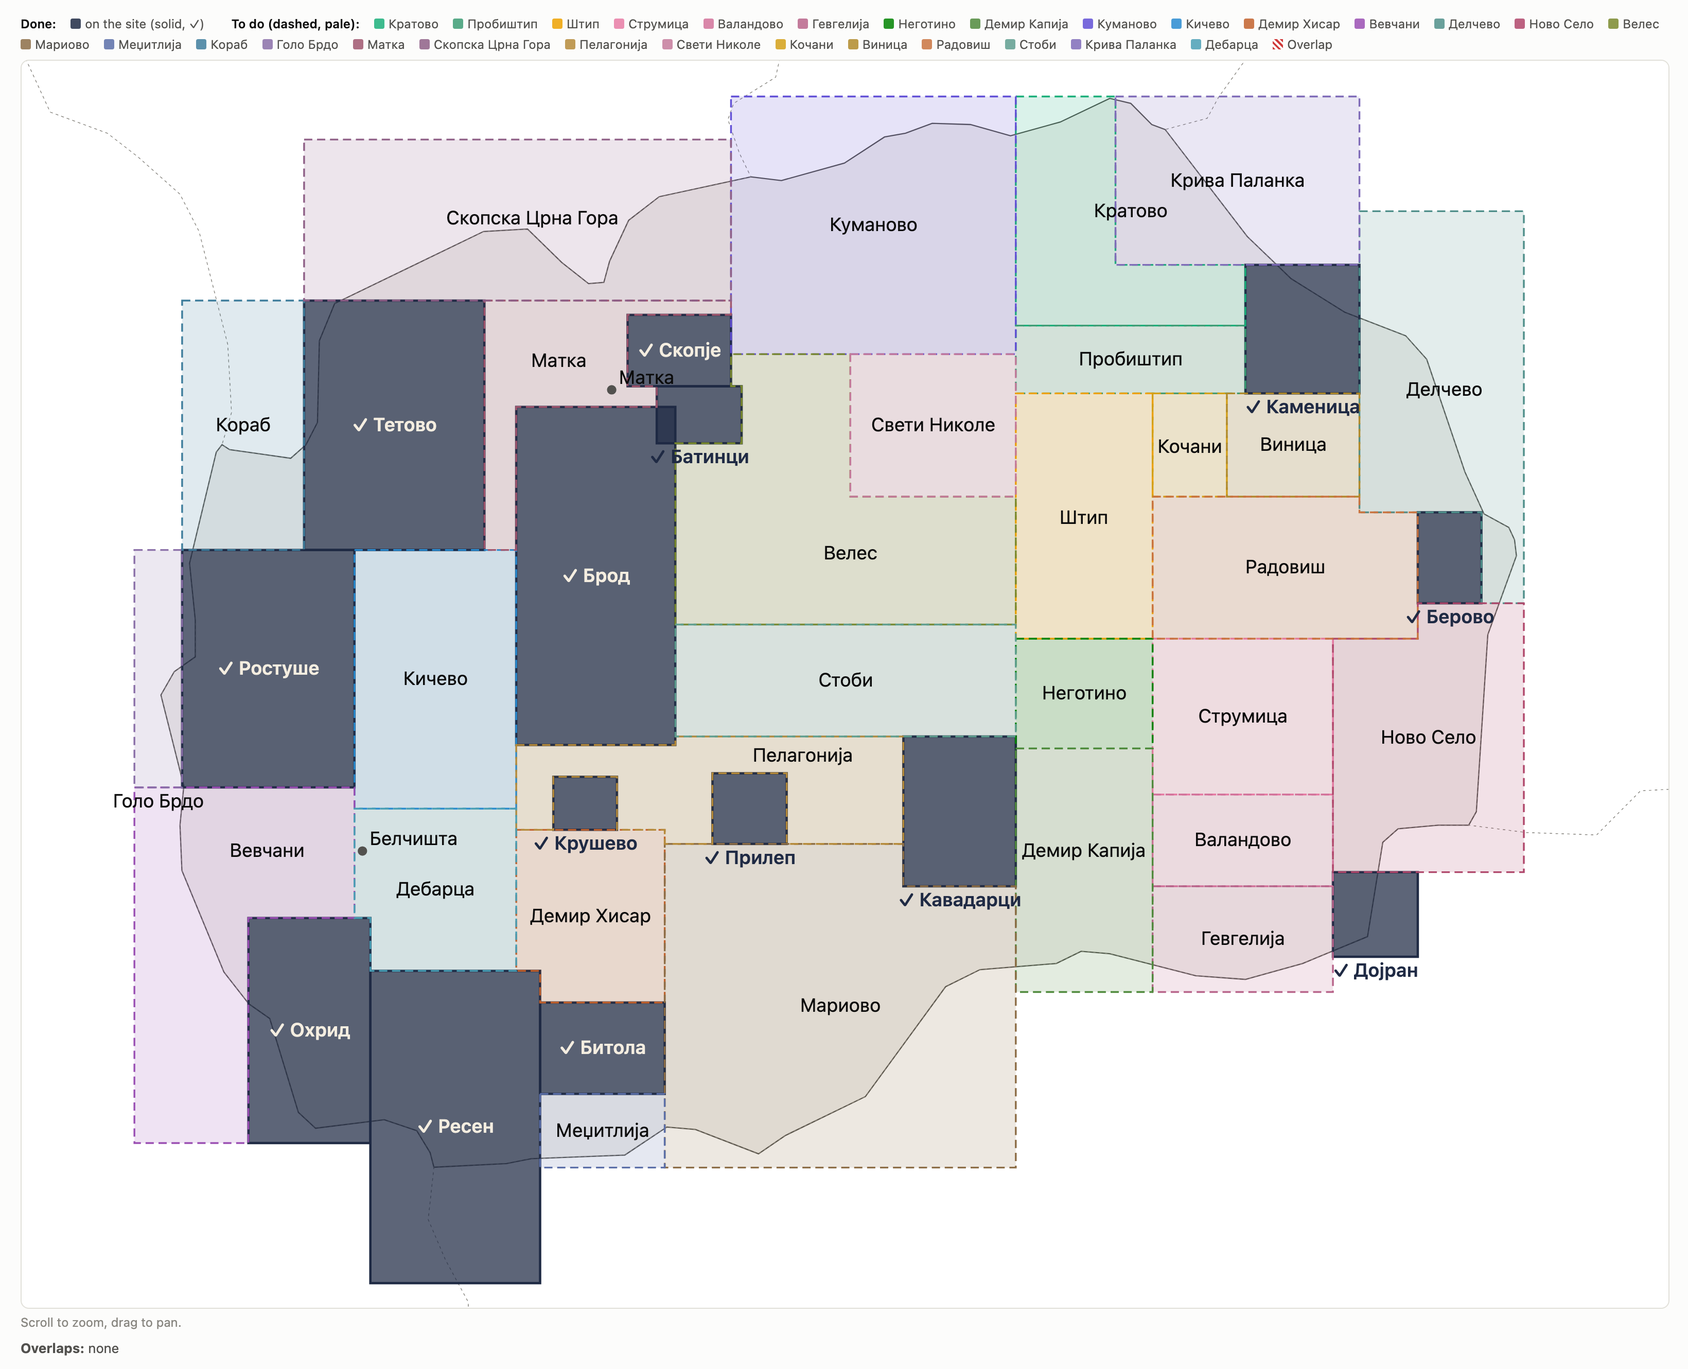
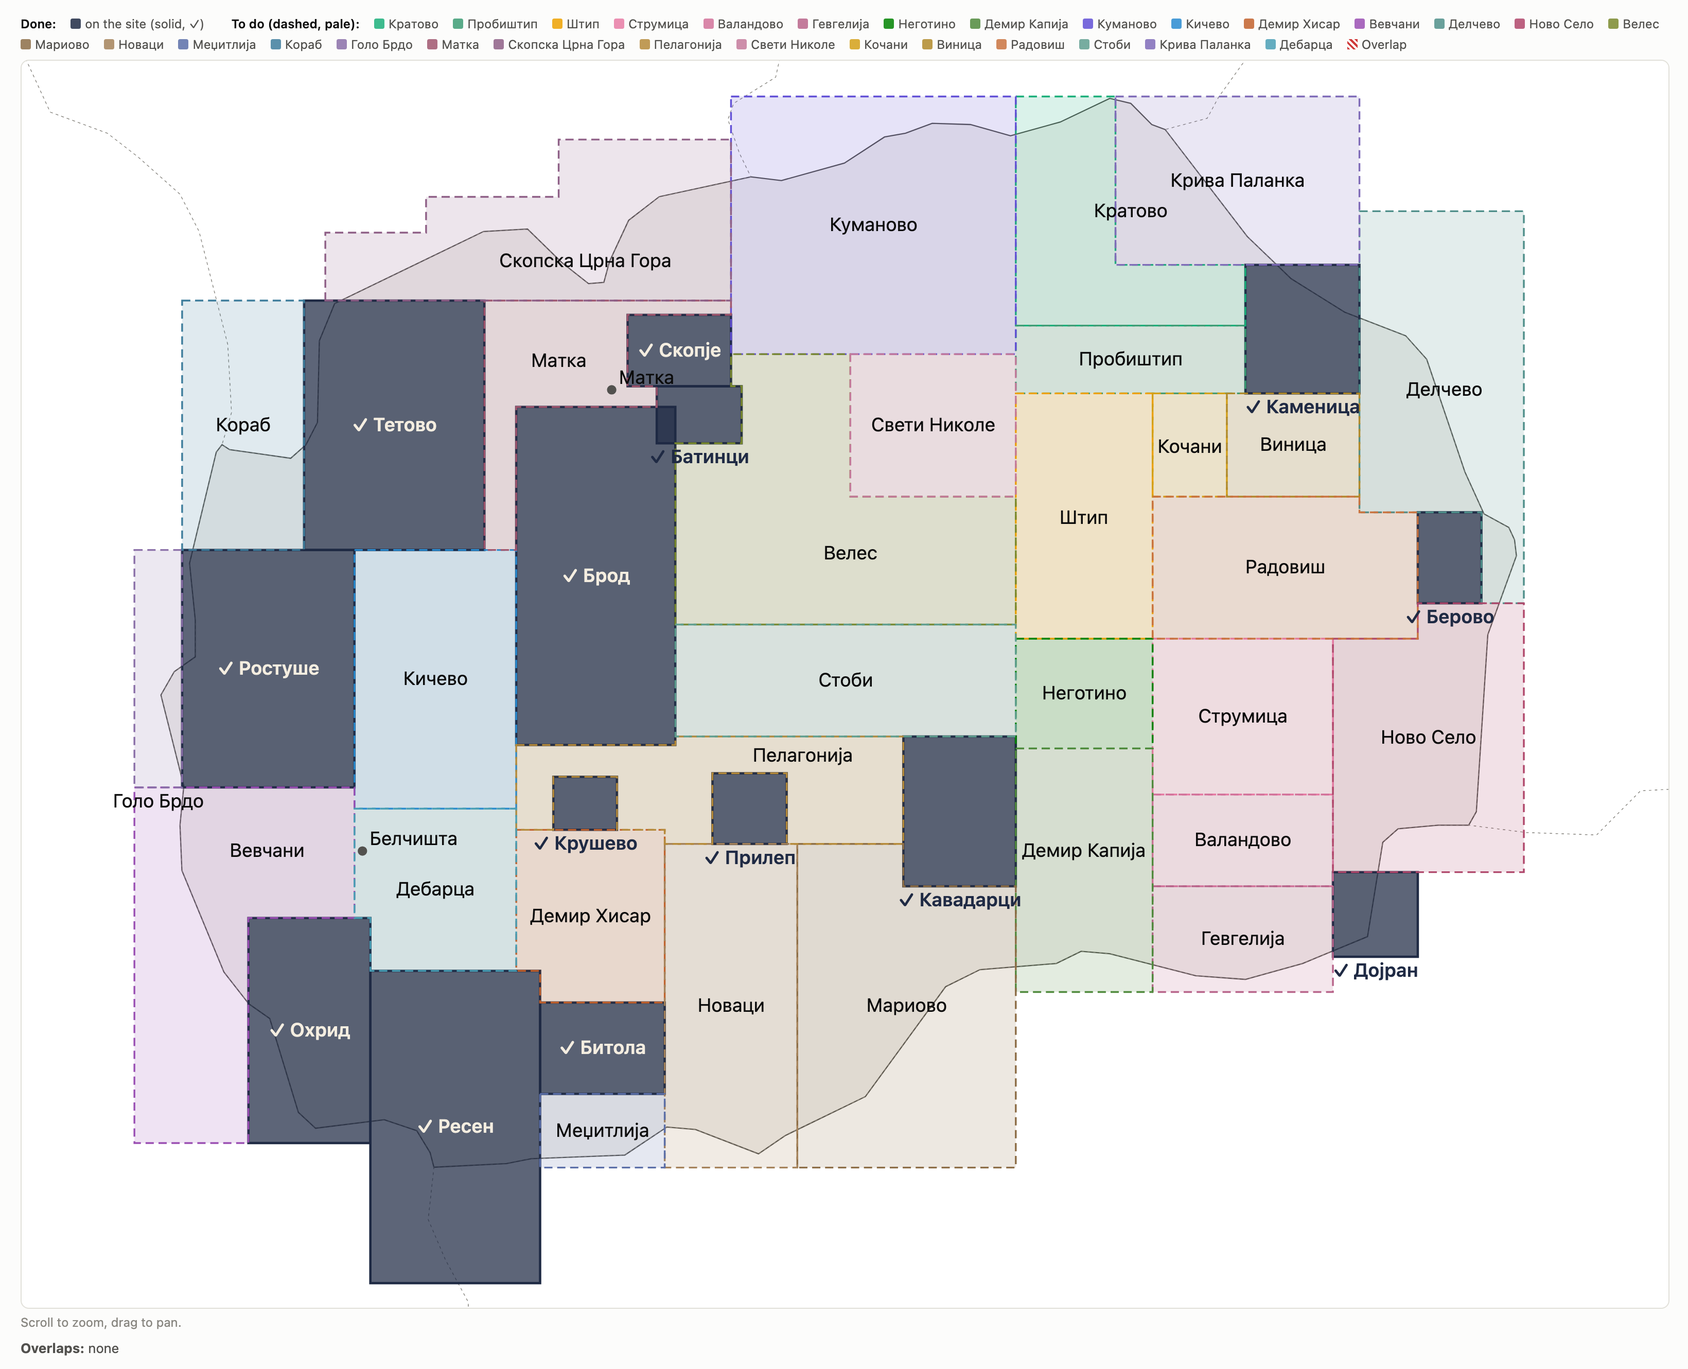
Towns plan: Новаци split off Мариово; Скопска Црна Гора trimmed to the border
Мариово keeps the east (Кајмакчалан, the villages, the Црна's gorge) from
21.65 E; the Pelagonian plain south-east of Битола becomes Новаци. Скопска
Црна Гора is an outline with 90° corners a few km past the Kosovo border
(Блаце and Љуботен inside; the world-atlas border is coarse). 30 new maps,
sorted by area in TOWNS_TODO.md; still no overlaps and no part of the country
off a map.

diff --git a/scripts/towns-map.html b/scripts/towns-map.html
@@ -8,10 +8,10 @@
 <script>
 const dark=false;const EX='#1f2a44';
 const existing=[['Скопје',41.955,21.33,42.055,21.525],['Кавадарци',41.25,21.85,41.462,22.062],['Битола',40.955,21.165,41.085,21.40],['Охрид',40.885,20.615,41.205,20.845],['Прилеп',41.31,21.49,41.41,21.63],['Крушево',41.33,21.19,41.405,21.31],['Ростуше',41.39,20.49,41.725,20.815],['Каменица',41.945,22.495,42.125,22.71],['Дојран',41.15,22.66,41.27,22.82],['Батинци',41.875,21.385,41.955,21.545],['Берово',41.65,22.82,41.778,22.94],['Тетово',41.725,20.72,42.075,21.06],['Ресен',40.685,20.845,41.13,21.165],['Брод',41.45,21.12,41.926,21.42]];
-const planned=[['Кратово',42.04,22.062,42.36,22.495,'#1baf7a'],['Пробиштип',41.945,22.062,42.04,22.495,'#3c9c74'],['Штип',41.60,22.062,41.945,22.32,'#eda100'],['Струмица',41.38,22.32,41.60,22.66,'#e87ba4'],['Валандово',41.25,22.32,41.38,22.66,'#d2729a'],['Гевгелија',41.10,22.32,41.25,22.66,'#b8648a'],['Неготино',41.445,22.062,41.60,22.32,'#008300'],['Демир Капија',41.10,22.062,41.445,22.32,'#4f8a3c'],['Куманово',42.00,21.525,42.36,22.062,'#6250d6'],['Кичево',41.36,20.815,41.725,21.12,'#2a8bd0'],['Демир Хисар',41.085,21.12,41.33,21.40,'#c2622d'],['Вевчани',40.885,20.40,41.39,20.815,'#9a4fb3'],['Делчево',41.65,22.71,42.20,23.02,'#4f8f8a'],['Ново Село',41.27,22.66,41.65,23.02,'#b0476b'],['Велес',41.62,21.42,42.00,22.062,'#7a8a2e'],['Мариово',40.85,21.40,41.31,22.062,'#8c6d46'],['Меџитлија',40.85,21.165,40.955,21.40,'#5b6fa8'],['Кораб',41.725,20.49,42.075,20.72,'#3e7d9c'],['Голо Брдо',41.39,20.40,41.725,20.49,'#8a6fa8'],['Матка',41.725,21.06,42.075,21.525,'#a0566e'],['Скопска Црна Гора',42.075,20.72,42.30,21.525,'#8e5f86'],['Пелагонија',41.31,21.12,41.462,21.85,'#b58a3a'],['Свети Николе',41.80,21.75,42.00,22.062,'#c47a9b'],['Кочани',41.80,22.32,41.945,22.46,'#d4a017'],['Виница',41.80,22.46,41.945,22.71,'#b08a2a'],['Радовиш',41.60,22.32,41.80,22.82,'#c9733f'],['Стоби',41.462,21.42,41.62,22.062,'#5f9e8f'],['Крива Паланка',42.125,22.25,42.36,22.71,'#7f6bb8'],['Дебарца',41.13,20.815,41.36,21.12,'#4a9fb5']];
+const planned=[['Кратово',42.04,22.062,42.36,22.495,'#1baf7a'],['Пробиштип',41.945,22.062,42.04,22.495,'#3c9c74'],['Штип',41.60,22.062,41.945,22.32,'#eda100'],['Струмица',41.38,22.32,41.60,22.66,'#e87ba4'],['Валандово',41.25,22.32,41.38,22.66,'#d2729a'],['Гевгелија',41.10,22.32,41.25,22.66,'#b8648a'],['Неготино',41.445,22.062,41.60,22.32,'#008300'],['Демир Капија',41.10,22.062,41.445,22.32,'#4f8a3c'],['Куманово',42.00,21.525,42.36,22.062,'#6250d6'],['Кичево',41.36,20.815,41.725,21.12,'#2a8bd0'],['Демир Хисар',41.085,21.12,41.33,21.40,'#c2622d'],['Вевчани',40.885,20.40,41.39,20.815,'#9a4fb3'],['Делчево',41.65,22.71,42.20,23.02,'#4f8f8a'],['Ново Село',41.27,22.66,41.65,23.02,'#b0476b'],['Велес',41.62,21.42,42.00,22.062,'#7a8a2e'],['Мариово',40.85,21.65,41.31,22.062,'#8c6d46'],['Новаци',40.85,21.40,41.31,21.65,'#a5825a'],['Меџитлија',40.85,21.165,40.955,21.40,'#5b6fa8'],['Кораб',41.725,20.49,42.075,20.72,'#3e7d9c'],['Голо Брдо',41.39,20.40,41.725,20.49,'#8a6fa8'],['Матка',41.725,21.06,42.075,21.525,'#a0566e'],['Скопска Црна Гора',42.075,20.76,42.30,21.525,'#8e5f86'],['Пелагонија',41.31,21.12,41.462,21.85,'#b58a3a'],['Свети Николе',41.80,21.75,42.00,22.062,'#c47a9b'],['Кочани',41.80,22.32,41.945,22.46,'#d4a017'],['Виница',41.80,22.46,41.945,22.71,'#b08a2a'],['Радовиш',41.60,22.32,41.80,22.82,'#c9733f'],['Стоби',41.462,21.42,41.62,22.062,'#5f9e8f'],['Крива Паланка',42.125,22.25,42.36,22.71,'#7f6bb8'],['Дебарца',41.13,20.815,41.36,21.12,'#4a9fb5']];
 const cuts={'Ново Село':[[41.60,22.66,41.65,22.82]],'Дебарца':[[41.13,20.815,41.205,20.845]],'Демир Хисар':[[41.085,21.12,41.13,21.165]],'Мариово':[[41.25,21.85,41.31,22.062]],'Вевчани':[[40.885,20.615,41.205,20.815]],'Делчево':[[41.65,22.71,41.778,22.94]],'Радовиш':[[41.778,22.71,41.80,22.82]],'Кратово':[[42.125,22.25,42.36,22.495]]};
 const inCut=(c,la,lo)=>la>=c[0]-1e-9&&la<=c[2]+1e-9&&lo>=c[1]-1e-9&&lo<=c[3]+1e-9;
-const shapes={'Велес':[[21.42,41.875],[21.545,41.875],[21.545,41.955],[21.525,41.955],[21.525,42.00],[21.75,42.00],[21.75,41.80],[22.062,41.80],[22.062,41.62],[21.42,41.62]],'Пелагонија':[[21.12,41.45],[21.42,41.45],[21.42,41.462],[21.85,41.462],[21.85,41.31],[21.63,41.31],[21.63,41.41],[21.49,41.41],[21.49,41.31],[21.40,41.31],[21.40,41.33],[21.31,41.33],[21.31,41.405],[21.19,41.405],[21.19,41.33],[21.12,41.33]],'Матка':[[21.06,42.075],[21.525,42.075],[21.525,42.055],[21.33,42.055],[21.33,41.955],[21.385,41.955],[21.385,41.926],[21.12,41.926],[21.12,41.725],[21.06,41.725]]};
+const shapes={'Скопска Црна Гора':[[20.76,42.075],[20.76,42.17],[20.95,42.17],[20.95,42.22],[21.20,42.22],[21.20,42.30],[21.525,42.30],[21.525,42.075]],'Велес':[[21.42,41.875],[21.545,41.875],[21.545,41.955],[21.525,41.955],[21.525,42.00],[21.75,42.00],[21.75,41.80],[22.062,41.80],[22.062,41.62],[21.42,41.62]],'Пелагонија':[[21.12,41.45],[21.42,41.45],[21.42,41.462],[21.85,41.462],[21.85,41.31],[21.63,41.31],[21.63,41.41],[21.49,41.41],[21.49,41.31],[21.40,41.31],[21.40,41.33],[21.31,41.33],[21.31,41.405],[21.19,41.405],[21.19,41.33],[21.12,41.33]],'Матка':[[21.06,42.075],[21.525,42.075],[21.525,42.055],[21.33,42.055],[21.33,41.955],[21.385,41.955],[21.385,41.926],[21.12,41.926],[21.12,41.725],[21.06,41.725]]};
 const inside=(b,la,lo)=>shapes[b[0]]?d3.polygonContains(shapes[b[0]],[lo,la]):la>=b[1]&&la<=b[3]&&lo>=b[2]&&lo<=b[4]&&!(cuts[b[0]]||[]).some(c=>la>c[0]&&la<c[2]&&lo>c[1]&&lo<c[3]);
 function outline(b){if(shapes[b[0]])return shapes[b[0]];const[s,w,n,e]=b.slice(1,5);const cs=cuts[b[0]]||[];const pts=[];
 for(const[la,lo,dla,dlo]of[[n,w,0,1],[n,e,1,0],[s,e,0,-1],[s,w,-1,0]]){const c=cs.find(c=>inCut(c,la,lo));
@@ -37,7 +37,7 @@ const ov=[];for(let i=0;i<all.length;i++)for(let j=i+1;j<all.length;j++){const A
 let cut=true;for(let i=0;i<=8&&cut;i++)for(let j=0;j<=8&&cut;j++){const la=s+(n-s)*(0.02+0.96*i/8),lo=wv+(e-wv)*(0.02+0.96*j/8);if(inside(A,la,lo)&&inside(B,la,lo))cut=false;}
 if(n-s>1e-4&&e-wv>1e-4&&!cut){const r=rect(['',s,wv,n,e]);svg.append('rect').attr('x',r.x).attr('y',r.y).attr('width',Math.max(r.w,1.5)).attr('height',Math.max(r.h,1.5)).attr('fill','url(#hz)').attr('stroke','#d03b3b');ov.push(`${A[0]} ↔ ${B[0]}: ${((n-s)*111).toFixed(1)} × ${((e-wv)*111*Math.cos(41.5*Math.PI/180)).toFixed(1)} km`);}}
 points.forEach(([n,la,lo])=>{const[x,y]=proj([lo,la]);svg.append('circle').attr('cx',x).attr('cy',y).attr('r',4).attr('fill',ink);label(n,x+6,y-5,'start');});
-const labelAt={'Кочани':[41.87,22.39],'Демир Капија':[41.30,22.19],'Велес':[41.72,21.75],'Пелагонија':[41.435,21.66],'Матка':[41.99,21.20],'Скопска Црна Гора':[42.19,21.15],'Вевчани':[41.30,20.65],'Делчево':[41.95,22.87],'Штип':[41.77,22.19]};
+const labelAt={'Кочани':[41.87,22.39],'Демир Капија':[41.30,22.19],'Велес':[41.72,21.75],'Пелагонија':[41.435,21.66],'Матка':[41.99,21.20],'Скопска Црна Гора':[42.13,21.25],'Вевчани':[41.30,20.65],'Делчево':[41.95,22.87],'Штип':[41.77,22.19]};
 all.forEach(b=>{const r=rect(b);const done=b[6]==='e';const t=done?'✓ '+b[0]:b[0];const fits=t.length*9+10<r.w;const at=labelAt[b[0]]&&proj([labelAt[b[0]][1],labelAt[b[0]][0]]);if(at){label(t,at[0],at[1]+5,'middle','#0b0b0b',400);return;}label(t,r.x+r.w/2,fits?r.y+r.h/2+5:r.y+r.h+17,'middle',done&&fits?'#f4ede0':(done?'#1f2a44':'#0b0b0b'),done?600:400);});
 document.getElementById('ov').innerHTML='<b>Overlaps:</b> '+(ov.length?ov.join(' · '):'none');}
 </script></body></html>

diff --git a/docs/TOWNS_TODO.md b/docs/TOWNS_TODO.md
@@ -16,18 +16,19 @@ out where a neighbour already is, `shapes` the full outline of a map that is not
 "/Applications/Google Chrome.app/Contents/MacOS/Google Chrome" --headless=new --disable-gpu --hide-scrollbars --force-device-scale-factor=2 --window-size=1640,1330 --virtual-time-budget=8000 --screenshot=docs/towns-map.png http://localhost:5173/scripts/towns-map.html
 ```
 
-**To do: 29 new maps**, all edge to edge, no overlaps, the whole country covered. Largest first (km², official
+**To do: 30 new maps**, all edge to edge, no overlaps, the whole country covered. Largest first (km², official
 towns on it):
 
 | Map | ~km² | Towns | | Map | ~km² | Towns |
 |---|---|---|---|---|---|---|
-| Мариово* | 2700 | — | | Пелагонија* | 730 | — |
-| Куманово | 1790 | Куманово | | Струмица | 690 | Струмица |
-| Скопска Црна Гора* | 1680 | — | | Дебарца | 630 | — |
-| Велес | 1540 | Велес | | Демир Хисар | 620 | Демир Хисар |
-| Вевчани | 1350 | — | | Свети Николе | 580 | Свети Николе |
-| Делчево | 1310 | Делчево | | Матка* | 530 | — |
-| Ново Село* | 1190 | — | | Гевгелија | 470 | Гевгелија, Богданци |
+| Куманово | 1790 | Куманово | | Кораб* | 740 | — |
+| Мариово* | 1640 | — | | Пелагонија* | 730 | — |
+| Велес | 1540 | Велес | | Струмица | 690 | Струмица |
+| Вевчани | 1350 | — | | Дебарца | 630 | — |
+| Делчево | 1310 | Делчево | | Демир Хисар | 620 | Демир Хисар |
+| Ново Село* | 1190 | — | | Свети Николе | 580 | Свети Николе |
+| Скопска Црна Гора* | 1180 | — | | Матка* | 530 | — |
+| Новаци* | 1060 | — | | Гевгелија | 470 | Гевгелија, Богданци |
 | Кичево | 1030 | Кичево | | Валандово | 410 | Валандово |
 | Крива Паланка | 1000 | Крива Паланка | | Пробиштип | 380 | Пробиштип |
 | Стоби* | 940 | — | | Неготино | 370 | Неготино |
@@ -35,10 +36,9 @@ towns on it):
 | Штип | 820 | Штип | | Голо Брдо* | 280 | — |
 | Демир Капија | 820 | Демир Капија | | Меџитлија* | 230 | — |
 | Кратово | 750 | Кратово | | Кочани | 190 | Кочани |
-| Кораб* | 740 | — | |  | |  |
 
-\* working names. Скопска Црна Гора is about two thirds Kosovo. Only Гевгелија holds two towns now (Богданци is next to it). For comparison, the largest finished
-maps are Брод and Ресен (about 1320 km² each).
+\* working names. Only Гевгелија holds two towns now (Богданци is next to it). For comparison, the largest finished
+maps are Брод and Ресен (about 1320 km² each); areas include the parts across the borders.
 
 **Cut corners.** Where two maps would overlap, the newer map leaves the corner out (an outline with 90° corners).
 In the app a map is still one rectangle (download tiles, terrain grid, chunks): when such a map is built, its
@@ -209,7 +209,7 @@ Ohrid 096, Prilep 048, Kruševo 098): ask for each one when it is started.
   below Крушево.
 - **Code:** open (phone code 047). `?city=demirhisar`.
 - **Extent:** **edge to edge** (decided with the owner on 2026-11-23): w 21.12 (Дебарца's e), e 21.40 (Битола's e and
-  Мариово's w; first 21.49, trimmed so the two do not overlap), n 41.33 (Крушево's s), s 41.085 (Битола's n).
+  Новаци's w; first 21.49, trimmed so the two do not overlap), n 41.33 (Крушево's s), s 41.085 (Битола's n).
   About 23 × 27 km, 20 m cells.
   **Cut corner** (decided 2026-11-23): Ресен's north-east corner (41.085–41.13 N, 21.12–21.165 E, about 5 × 3.7 km)
   is left out of this map.
@@ -263,14 +263,12 @@ Ohrid 096, Prilep 048, Kruševo 098): ask for each one when it is started.
 ### 16. Мариово (name open)
 
 - **On it:** Мариово (Витолиште, Мемориште, Скочивир, Старавина), Кајмакчалан and the Нице front, the Црна's gorge,
-  Тиквешко Езеро's upper end, Пелагонија's south-east corner.
+  Тиквешко Езеро's upper end.
 - **Name / code:** open (working name Мариово).
-- **Extent:** decided with the owner on 2026-11-23: n 41.31 (Прилеп's s), s ~40.85 (past the Greek border
-  everywhere, as low as the border dips near Кајмакчалан: check in OSM), w 21.40 (Битола's e), e 22.062 (Демир Капија's w).
-  About 51 × 55 km, 20 m cells.
-  **Cut corner** (decided 2026-11-23): Кавадарци's south-west corner (41.25–41.31 N, 21.85–22.062 E, about 7 × 18 km)
-  is left out of this map.
-  Демир Хисар was trimmed to e 21.40 to meet it.
+- **Extent:** decided with the owner on 2026-11-23: n 41.31 (Прилеп's s side, Пелагонија's s), s ~40.85 (past the Greek
+  border everywhere: check in OSM), w 21.65 (Новаци's e: the first Мариово map reached west to Битола and was split,
+  34), e 22.062 (Демир Капија's w). **Cut corner** (decided 2026-11-23): Кавадарци's south-west corner (41.25–41.31 N,
+  21.85–22.062 E) is left out. About 1650 km², 20 m cells; its south is Greece.
 - **Landmarks:** Кајмакчалан's chapel at the summit, the Црна in its canyon, Мариово's stone villages.
 
 ### 17. Меџитлија (name open)
@@ -279,7 +277,7 @@ Ohrid 096, Prilep 048, Kruševo 098): ask for each one when it is started.
   Кременица, Лажец; across the border the first villages of the Florina plain.
 - **Name / code:** open (working name Меџитлија).
 - **Extent:** decided with the owner on 2026-11-23: n 40.955 (Битола's s), s ~40.85 (as Мариово), w 21.165 (Ресен's e),
-  e 21.40 (Мариово's w). About 12 × 20 km. The border runs through it (~40.91): its south half is Greece.
+  e 21.40 (Новаци's w). About 12 × 20 km. The border runs through it (~40.91): its south half is Greece.
   It could also be added to Битола's map instead of being a map of its own.
 - **Landmarks:** the border crossing, the fields, Пелистер's eastern foot.
 
@@ -426,10 +424,22 @@ Ohrid 096, Prilep 048, Kruševo 098): ask for each one when it is started.
 - **On it:** Скопска Црна Гора (Чучер, Бањане, Кучевиште), Блаце and the Лепенец at the Kosovo border, the strip
   above Тетово's map to the border.
 - **Name / code:** open (working name Скопска Црна Гора).
-- **Extent:** split off Матка by the owner on 2026-11-23: s 42.075 (Матка's, Скопје's and Тетово's n side), n ~42.30
-  (the Kosovo border: check in OSM), w 20.72 (Кораб's e), e 21.525 (Куманово's w). About 1670 km², but only about
-  560 km² of it is in the country (the rest is Kosovo): the n and w edges could come in when it is built.
+- **Extent:** split off Матка by the owner on 2026-11-23: s 42.075 (Матка's, Скопје's and Тетово's n side), e 21.525
+  (Куманово's w). Trimmed to the Kosovo border the same day, an outline with 90° corners (`shapes`) a few km
+  past the border (world-atlas 1:50m is coarse: Блаце at 42.27 N fell outside it, so the east part keeps 42.30;
+  check in OSM): w 20.76, n 42.17 west of 20.95, 42.22 (Љуботен, 42.19) to 21.20, 42.30 to the east edge. Its
+  rectangle would be 42.075–42.30 N, 20.76–21.525 E. About 1180 km², of which about 560 km² in the country.
 - **Landmarks:** Св. Никола at Кучевиште, Скопска Црна Гора's villages, the Блаце crossing.
+
+### 34. Новаци (name open)
+
+- **On it:** the Pelagonian plain south-east of Битола: Новаци, Бач, Добромири, Паралово, the Црна's lower plain
+  before the gorge; Нидже's north slopes at the Greek border.
+- **Name / code:** open (working name Новаци, phone code 047).
+- **Extent:** split off Мариово by the owner on 2026-11-23: w 21.40 (Битола's, Меџитлија's and Демир Хисар's e),
+  e 21.65 (Мариово's w), n 41.31 (Пелагонија's and Прилеп's s), s ~40.85 (past the Greek border: check in OSM).
+  About 1060 km², 20 m cells.
+- **Landmarks:** the plain's fields (`farmMask`, as Битола), the Црна, the Нице front's western end.
 
 ## Not placed yet
 
